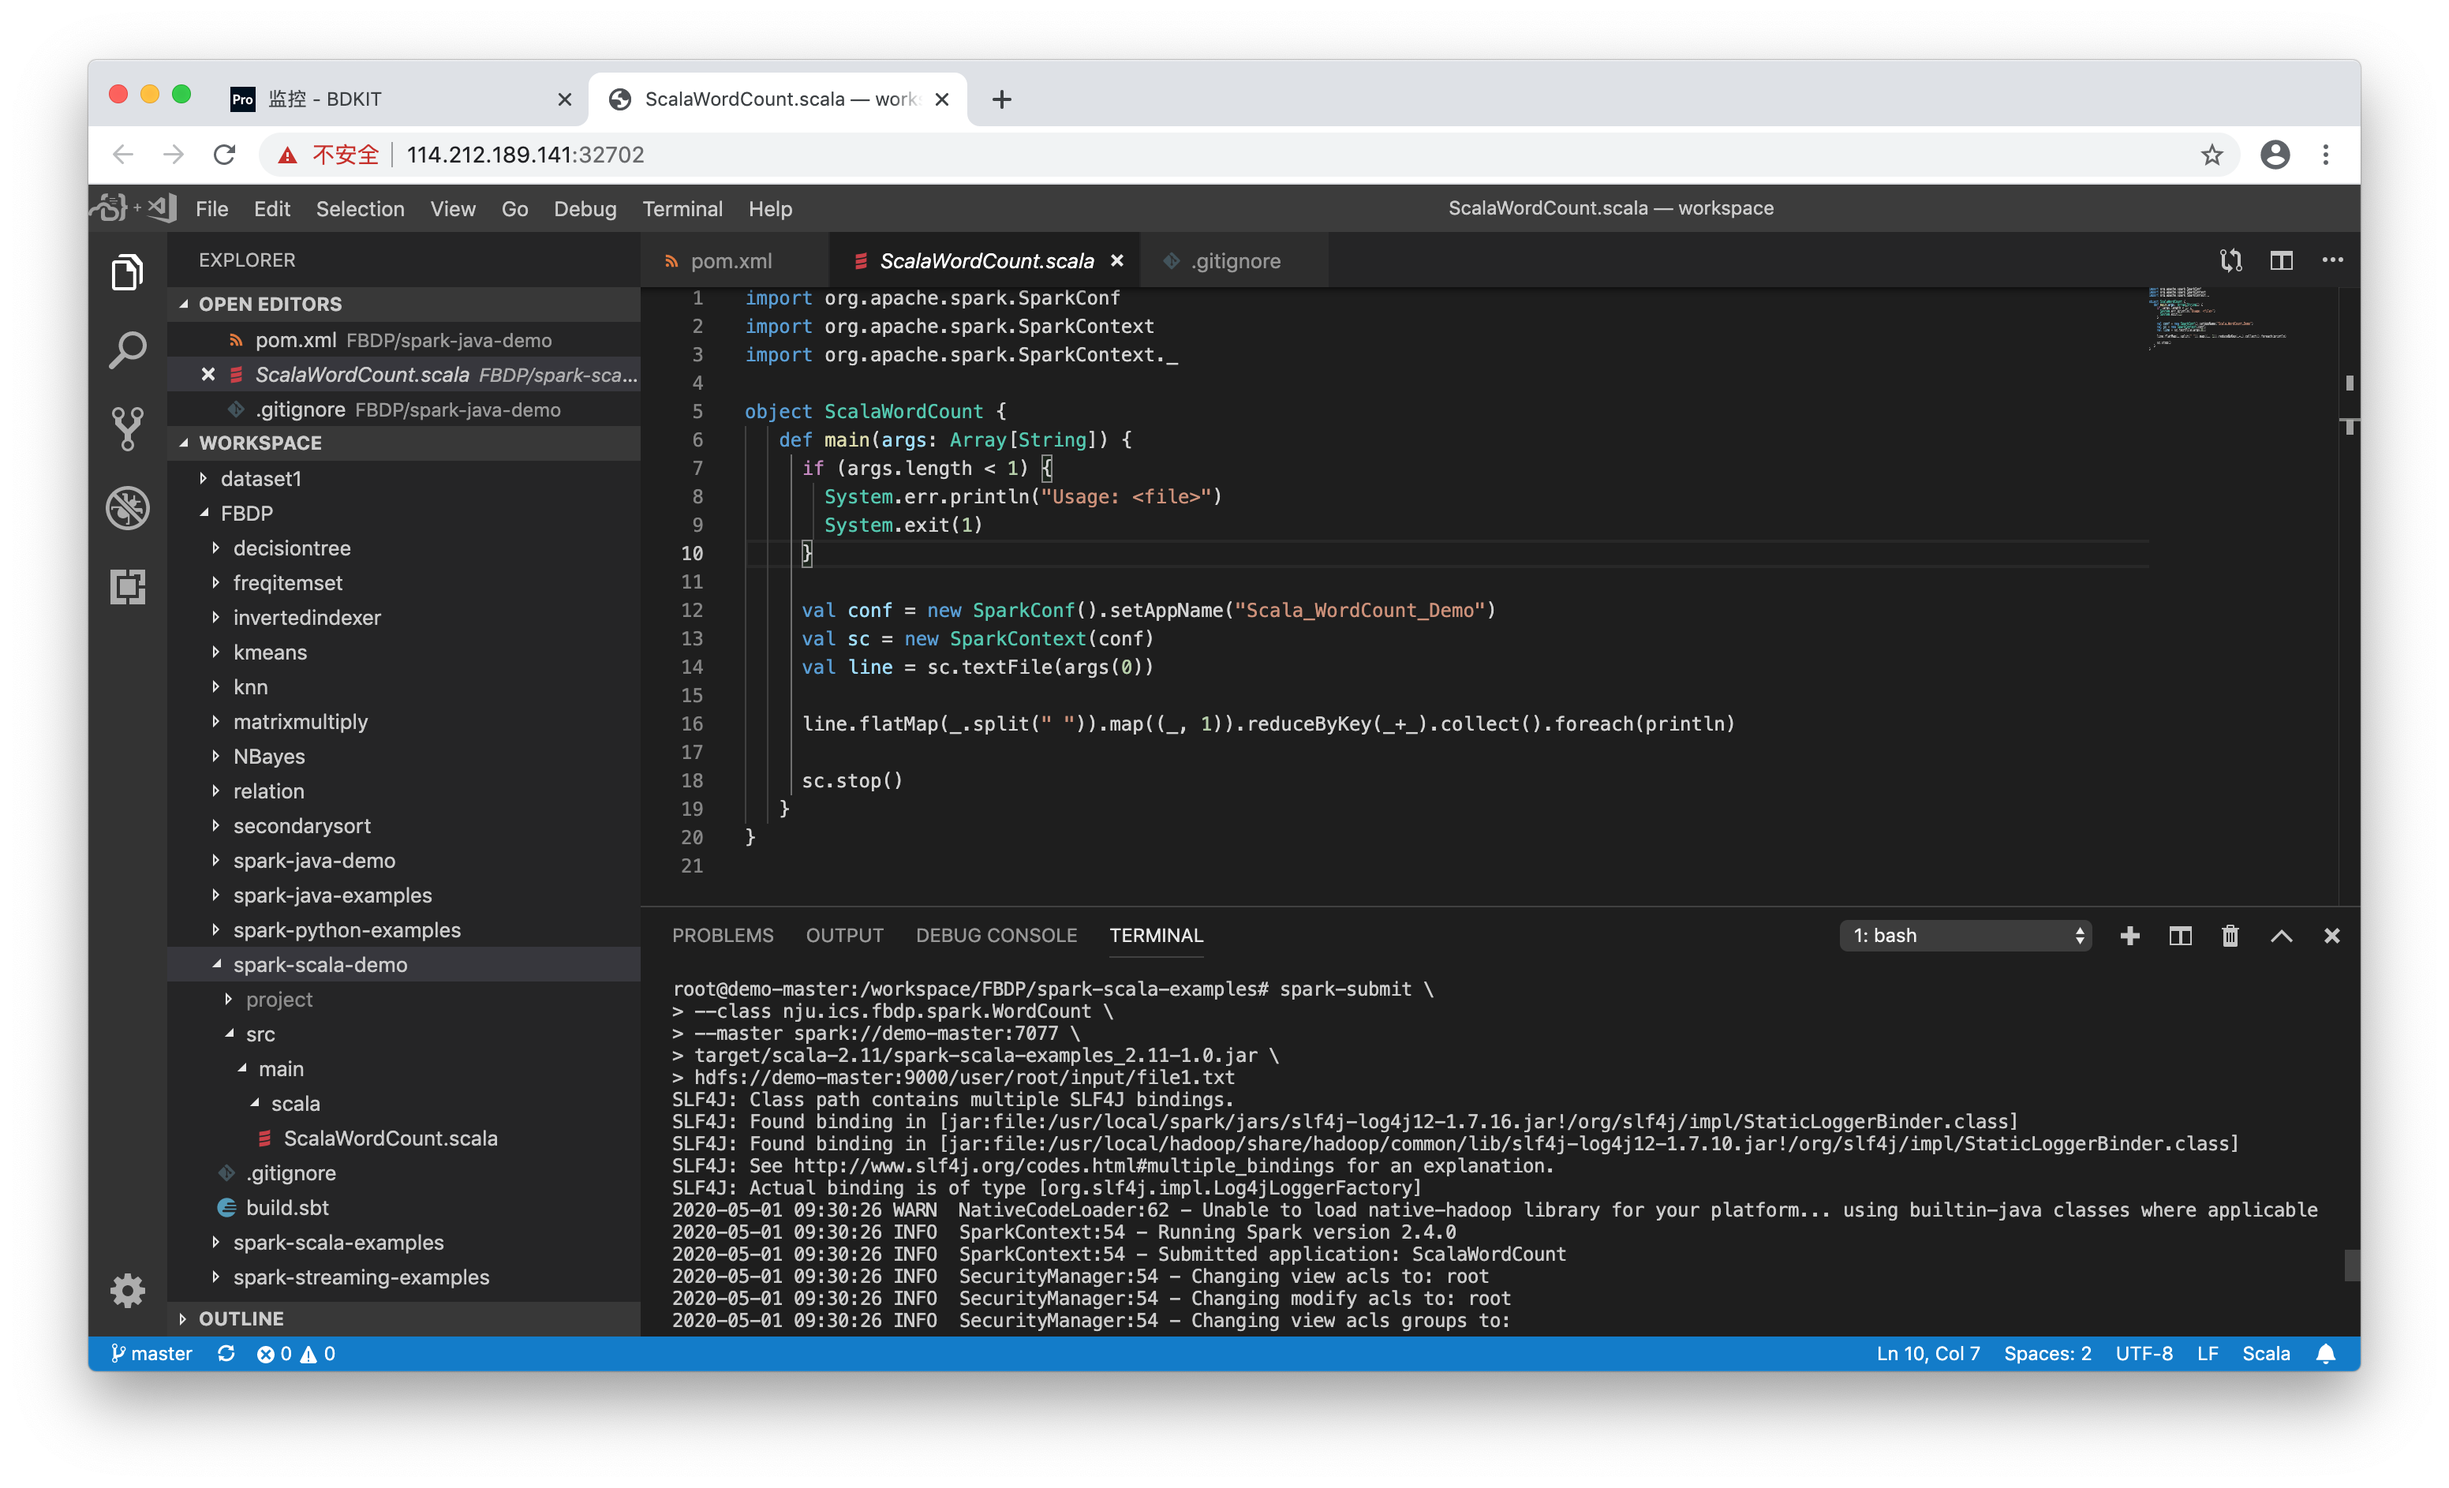
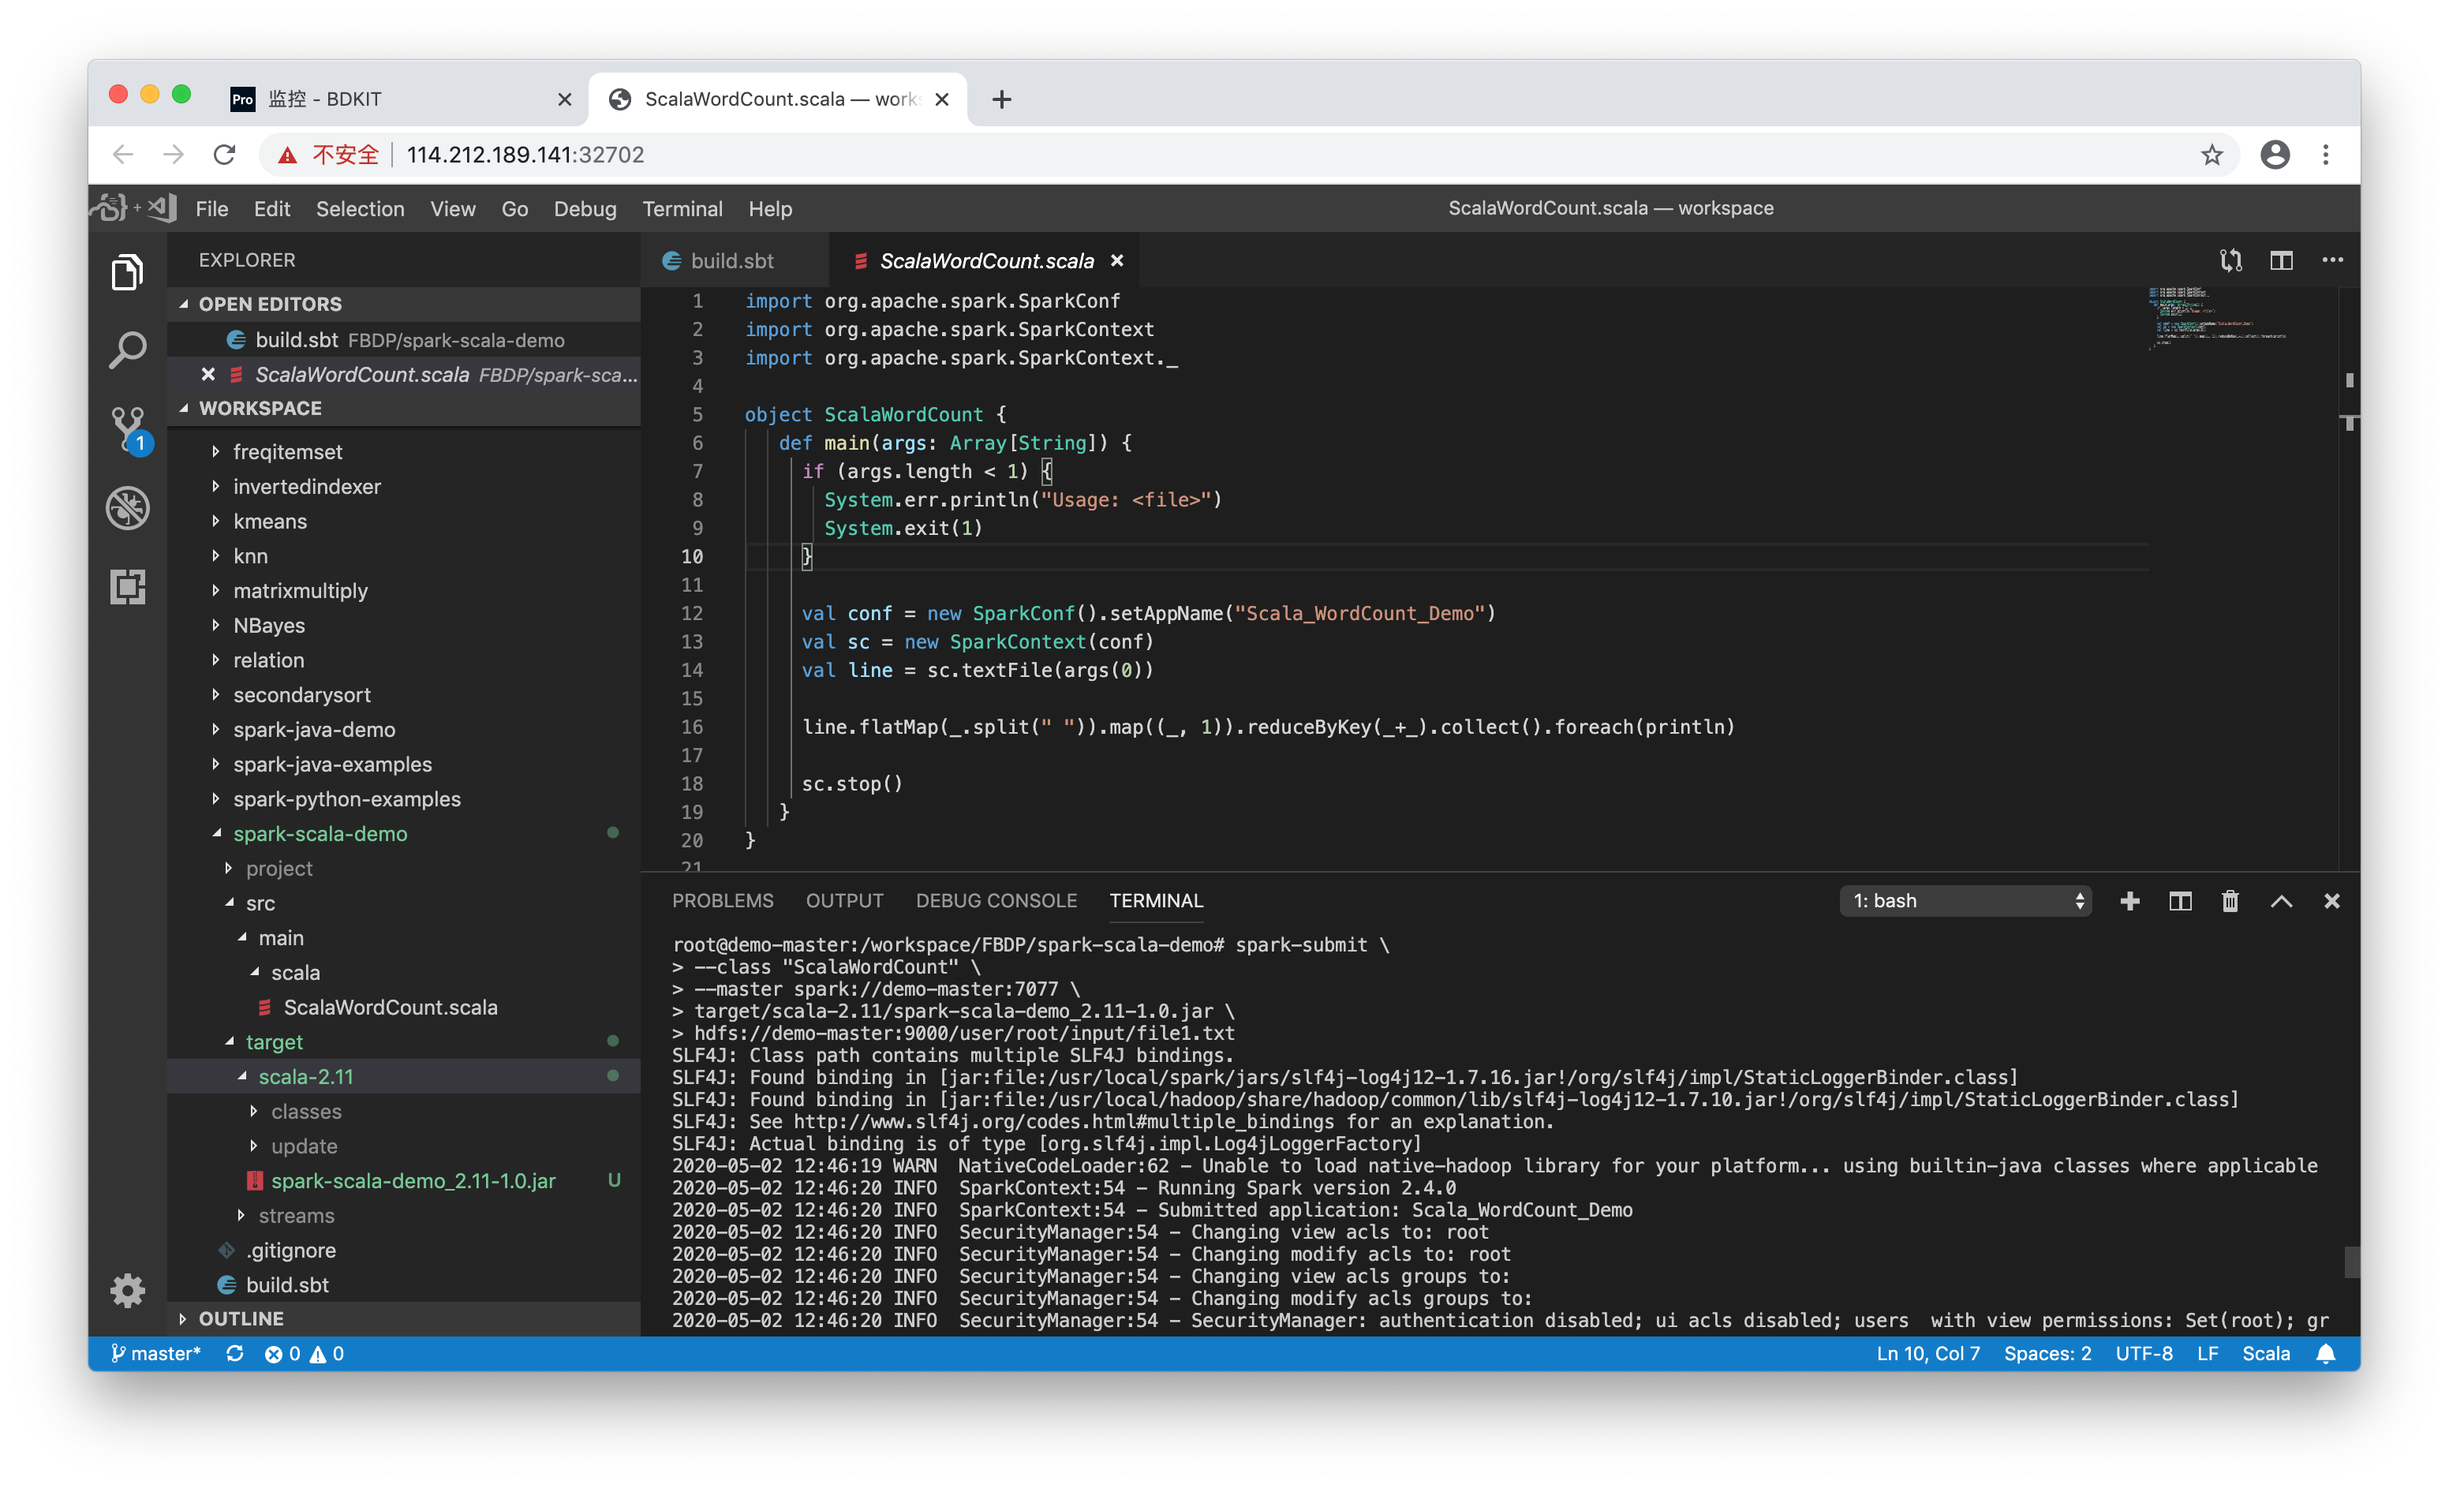
update snapshots

diff --git a/demo/spark.md b/demo/spark.md
@@ -198,6 +198,8 @@ object ScalaWordCount {
 $ sbt package
 ```
 ![sbt package](../images/vscode-spark-scala3.png "sbt package")
+![sbt package](../images/vscode-spark-scala4.png "sbt package")
+
 
 - 提交到集群运行Word Count程序
 ```
